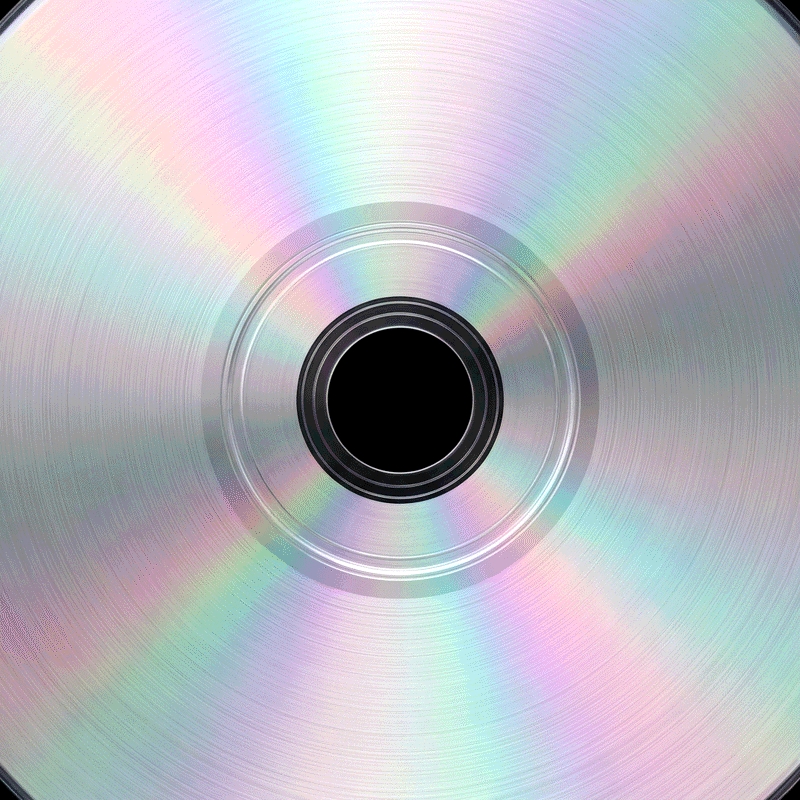
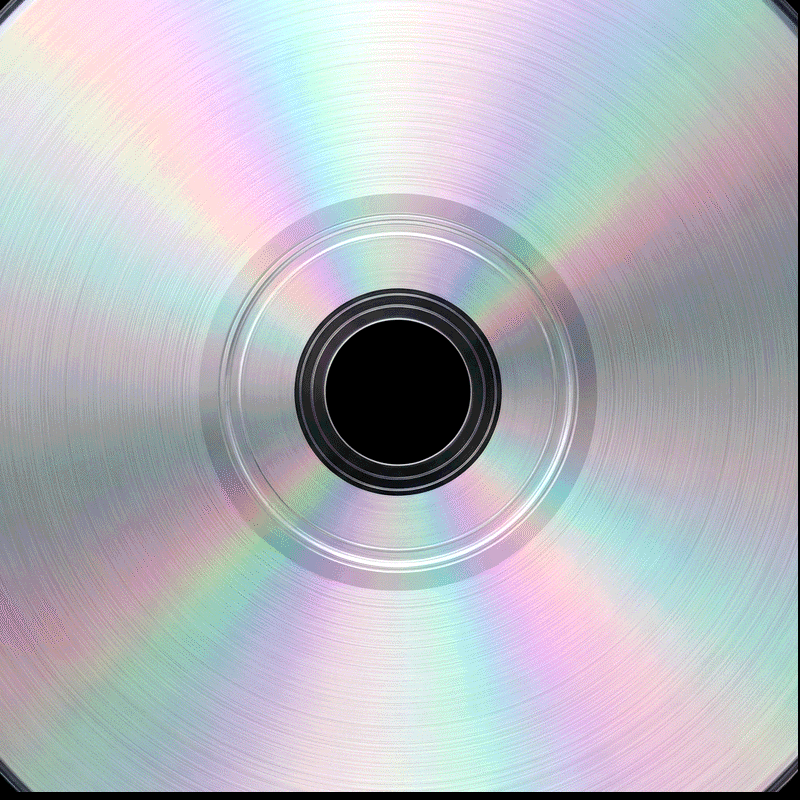
cd: recenter the disc texture so it doesn't wobble when spinning
The generated texture's hub sat ~8.5px below the image center, so rotating around
the geometric center made the hub orbit — reading as not-circular / misaligned at
speed. Recenter the hub to the exact middle (orbit 8.5px -> 0.5px) and overscan the
background 104% so the recenter's edge never shows a black sliver.

diff --git a/src/skins/player.css b/src/skins/player.css
@@ -263,10 +263,12 @@
   will-change: transform; backface-visibility: hidden;
   box-shadow: 0 0.6cqw 1.6cqw rgba(0,0,0,.55), inset 0 0 0 1px rgba(255,255,255,.14);
 }
-/* the silver CD data-side texture forms the whole disc surface */
+/* the silver CD data-side texture forms the whole disc surface. The texture's hub is
+   recentred to the exact middle so it doesn't orbit when spinning; background-size is
+   overscanned a touch (104%) so the recenter's edge never shows a black sliver. */
 .cd-surface {
   position: absolute; inset: 0; border-radius: 50%;
-  background: url("/cd-disc.png") center / cover no-repeat;
+  background: url("/cd-disc.png") center / 104% 104% no-repeat;
 }
 /* optional album-color tint: the cover, oversized + heavily blurred to a soft colour
    field, blended with mix-blend-mode:color so it recolours the silver to the album's
